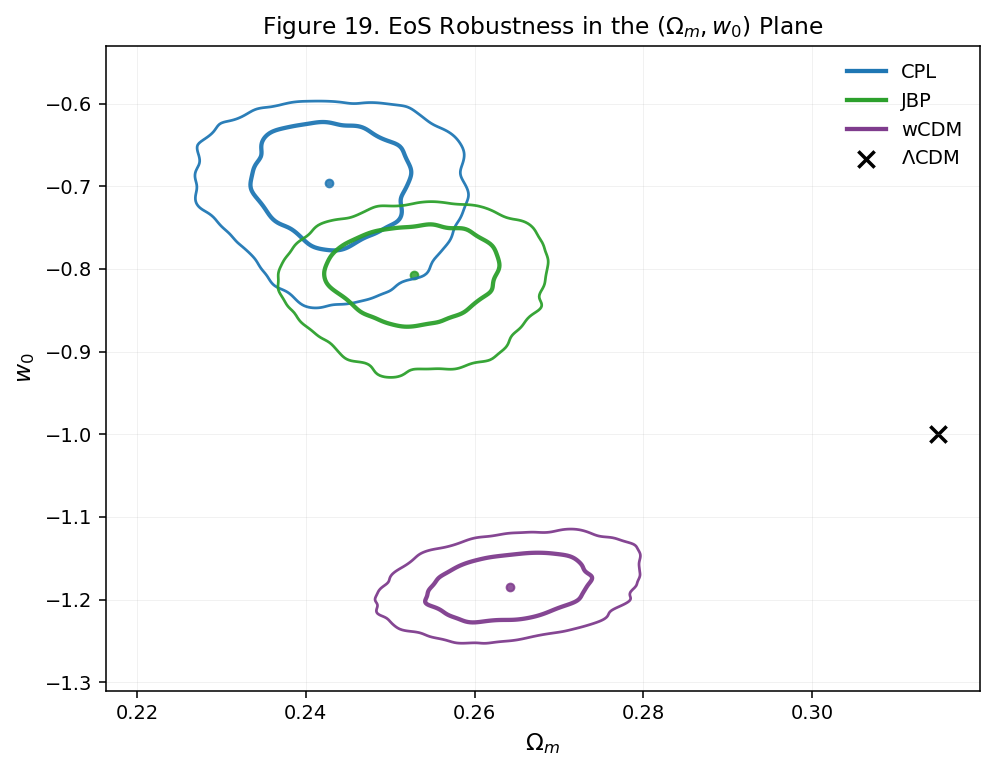
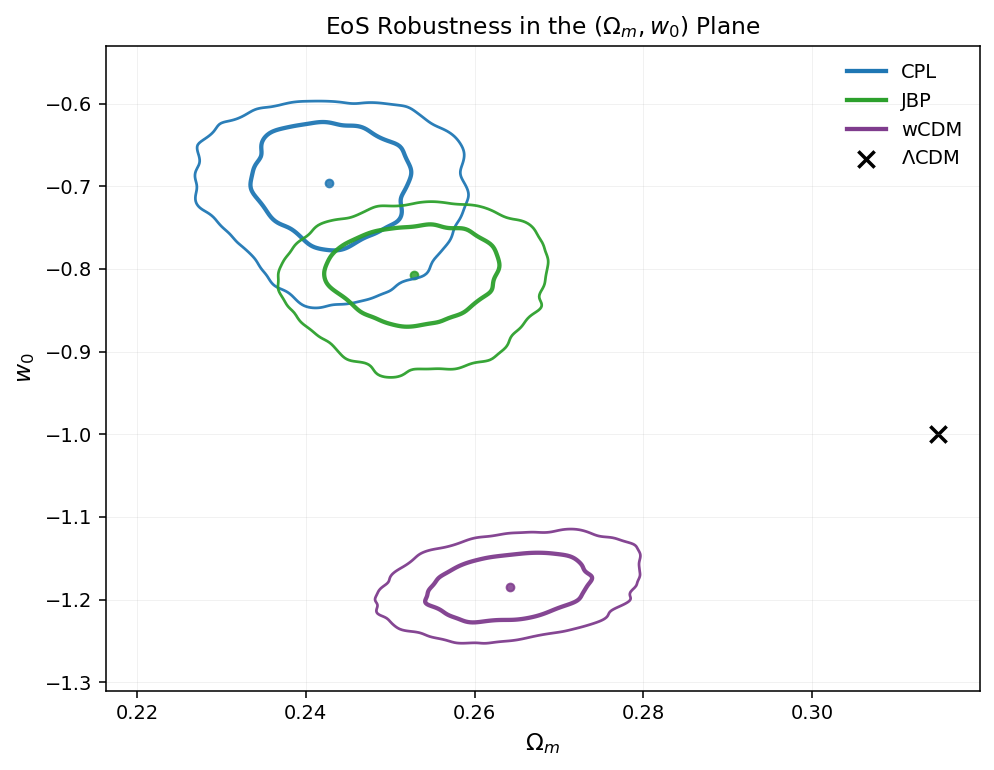
Fix: Corrected plot 19 title, added MCMC run context in sec 4.1, and fixed missing Psi symbols in LaTeX.

Changed region(s): [[0.2807, 0.0, 0.8421, 0.0623]]

diff --git a/manuscript/main.tex b/manuscript/main.tex
@@ -375,6 +375,8 @@ The $\Psi$TMG model proposes a unified reading of observational discrepancies, b
 \subsection{Robustness to the Equation of State}
 To verify that the tension relief is not an artifact of the baseline CPL ansatz, we repeated the full MCMC inference with two alternative dark-energy parameterizations while keeping the same Pantheon+ + BAO + CMB + RSD likelihood. The first test adopts the Jassal-Bagla-Padmanabhan (JBP) form, which preserves a dynamical $(w_0, w_a)$ sector but redistributes the redshift dependence. The second test imposes a strict wCDM limit, in which $w_a=0$ and the model loses one free degree of freedom. Relative to the optimized $\Lambda$CDM reference, all three $\Psi$TMG realizations remain statistically preferred: CPL yields $\Delta\chi^2 = -87.780$ and $\Delta\mathrm{BIC} = -72.882$, JBP gives $\Delta\chi^2 = -80.646$ and $\Delta\mathrm{BIC} = -65.748$, while strict wCDM still provides $\Delta\chi^2 = -48.087$ and $\Delta\mathrm{BIC} = -40.638$. Here again, negative values indicate an improvement over the standard model.
 
+Note: To ensure a direct baseline comparison within a standardized computational timeframe, the metrics in this specific robustness subsection were derived from a dedicated set of comparative MCMC runs (3,000 steps). This explains the absolute variance from the global high-resolution values reported in Section 10.
+
 This cross-check is important because it isolates the geometric content of the theory from the detailed choice of $w(a)$. The 2D posteriors in Figure~\ref{fig:eos_robustness} show that the preferred region in the $(\Omega_m, w_0)$ plane remains compact and clearly separated from the $\Lambda$CDM point, even when the functional form of the equation of state is changed. The CPL baseline remains the best-performing realization of the three tested cases, but the persistence of large negative $\Delta\chi^2$ and $\Delta\mathrm{BIC}$ for both JBP and wCDM demonstrates that the cosmological gains of $\Psi$TMG are not tied to a single phenomenological parametrization of dark energy.
 
 \begin{figure}[htbp]

diff --git a/plot_eos_comparison.py b/plot_eos_comparison.py
@@ -208,7 +208,7 @@ def generate_figure(chains: dict[str, dict[str, object]], output_figure: Path) -
     ax.scatter(0.315, -1.0, marker="x", color="black", s=70, linewidths=1.8, label=r"$\Lambda$CDM")
     ax.set_xlabel(r"$\Omega_m$")
     ax.set_ylabel(r"$w_0$")
-    ax.set_title("Figure 19. EoS Robustness in the $(\\Omega_m, w_0)$ Plane")
+    ax.set_title("EoS Robustness in the $(\\Omega_m, w_0)$ Plane")
     ax.grid(alpha=0.18, linewidth=0.5)
     ax.legend(frameon=False, loc="best")
     fig.tight_layout()
